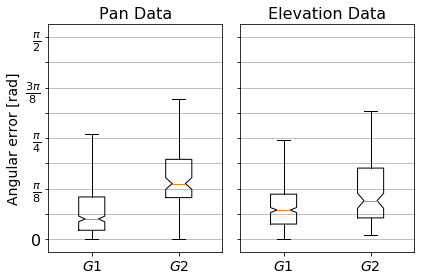
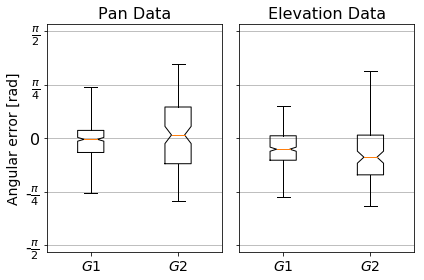
Changes to figures, added new signed error figure

diff --git a/paper.tex b/paper.tex
@@ -197,24 +197,26 @@ To minimise the speed/accuracy biases in the results, we asked the participants 
 
 The data collected during the experiment were grouped together by participant group and analysed.
 Similar to the results from~\cite{macdonald2006spatial,schonstein2008comparison}, we use the absolute mean errors for each dimension which allows us to compare our results to the aforementioned works'. 
-These results are presented in the boxplots in \cref{fig:err-results} and summarised in \cref{tab:results}.
+These results are presented in the boxplots in \cref{fig:err-results-fig} and summarised in \cref{tab:results}.
 
-\begin{figure}[t]
+\begin{figure}
   \centering
-  \includegraphics[width=0.7\columnwidth]{figures/pan_tilt_err.png}
-  \caption{Boxplots of the angular errors collected during the pointing experiment. }\label{fig:err-results}
+  \subfloat[]{\label{fig:err-results-abs}\includegraphics[width=0.7\columnwidth]{figures/pan_tilt_err_abs.png}}
+\quad
+  \subfloat[]{\label{fig:err-results}\includegraphics[width=0.7\columnwidth]{figures/pan_tilt_err.png}}
+  \caption{Boxplots of the absolute (top) and signed (bottom) angular errors collected during the pointing experiment. }\label{fig:err-results-fig}
 \end{figure}
 
 \begin{table}
   \centering
   \caption{A summary of the results collected from the experiment. }\label{tab:results}
-  \begin{tabular}{p{1cm}p{2cm}p{2.2cm}@{\hskip 1cm}p{3cm}}
+  \begin{tabular}{p{1cm}p{2cm}p{2.2cm}@{\hskip 1cm}p{3.2cm}}
     \toprule
     &           & Mean absolute error [rad]  & Spearman Correlation score \\ \midrule
     \multirow{2}{*}{\textit{G1}} & Pan       & $0.23\pm0.24$ & $0.88\;(p<0.001)$ \\
 				 & Elevation & $0.25\pm0.28$ & $0.64\;(p<0.001)$ \\ \midrule
     \multirow{2}{*}{\textit{G2}} & Pan       & $0.45\pm0.21$ & $0.41\;(p<0.001)$ \\
-				 & Elevation & $0.36\pm0.32$ & $0.61\;(p=0.001)$ \\
+				 & Elevation & $0.36\pm0.32$ & $0.61\;(p<0.001)$ \\
     \bottomrule
   \end{tabular}
 \end{table}
@@ -232,7 +234,7 @@ Comparing these results to methods that convey elevation through an HRTF, we see
 Indeed, the performance is comparable to that of open-back and expensive in-ear headphones.
 There is a more modest improvement of 43\% in \textit{G1} and 16\% for \textit{G2} when compared to the individualised and adjusted HRTFs in~\cite{stanley2006lateralization}.
 However, the participants from~\cite{stanley2006lateralization} all had healthy eyesight, making the latter comparison invalid. 
-Interestingly, the elevation errors for group \textit{G2} are centred around the negative angle, indicating a possible underlying bias in the participants or the interface\todo{show}.
+Interestingly, the elevation errors for group \textit{G2} are centred around the negative angle, as seen in \cref{fig:err-results}, indicating a possible underlying bias in the participants or the interface.
 A similar trend was observed in~\cite{stanley2006lateralization} and warrants an investigation with a larger participant pool to determine the underlying bias, if any. 
 
 The error data was used to generate scatter plots that show the correlation between the position that the guidance system presented the participants and the position the participants thought the targets were.
